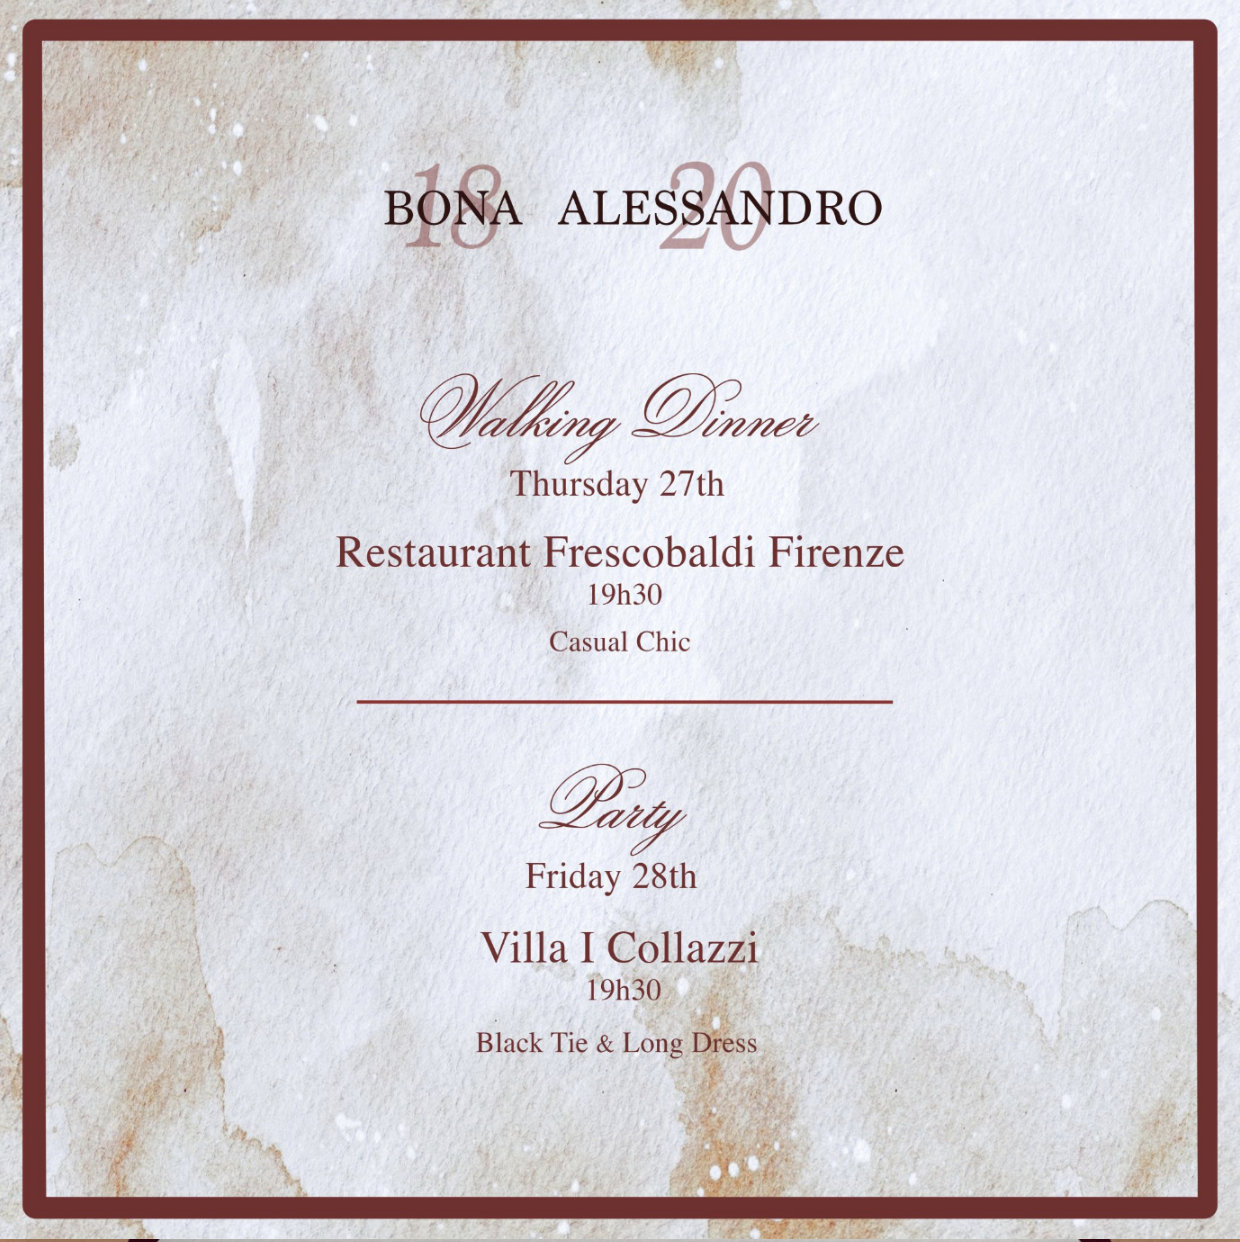
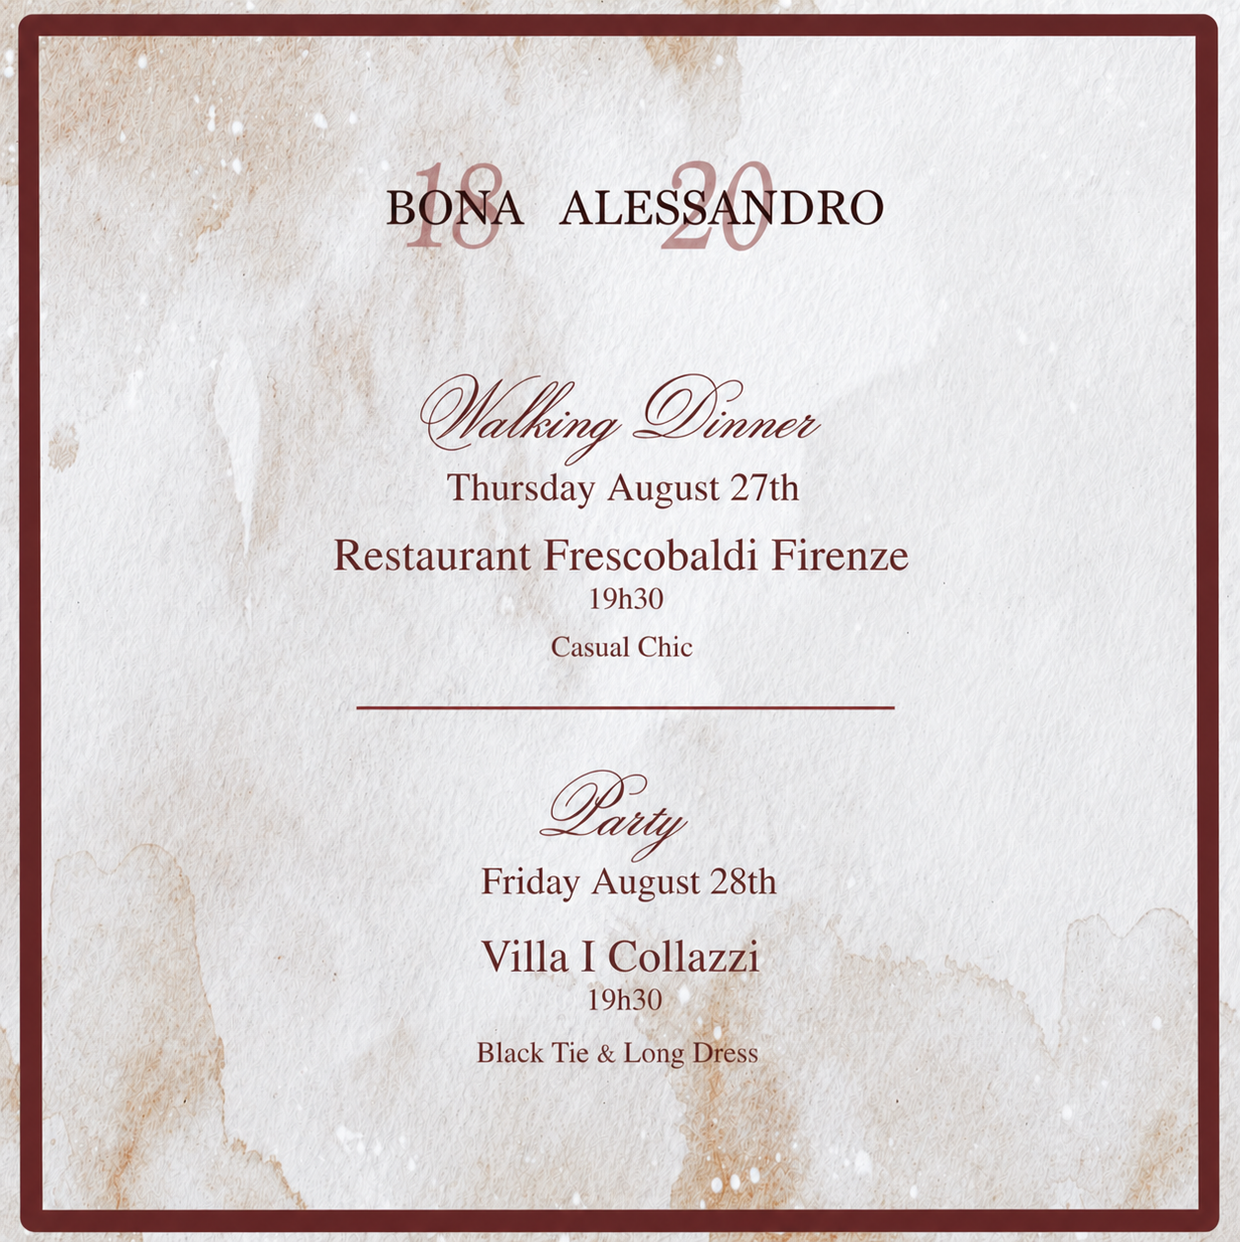
Update invitation assets and host tracking

diff --git a/src/components/host/host-dashboard.tsx b/src/components/host/host-dashboard.tsx
@@ -792,6 +792,7 @@ export function HostDashboard({
                   const latest = latestDelivery(party.deliveries);
                   const email = party.email?.trim();
                   const linkCopied = copiedLinkPartyId === party.id;
+                  const attendanceSummary = partyAttendanceSummary(party as Party, party.guests);
 
                   return (
                     <div
@@ -805,13 +806,40 @@ export function HostDashboard({
                             <div className="mt-1 text-sm text-stone-600">
                               {party.guests.map((guest) => guest.name).join(", ")}
                             </div>
-                            <div className="mt-2 text-sm text-stone-600">
-                              {partyAttendanceSummary(party as Party, party.guests)}
+                            <div className="mt-3 flex flex-wrap gap-2 text-xs font-semibold">
+                              <span
+                                suppressHydrationWarning
+                                className={cn(
+                                  "rounded-full border px-3 py-1",
+                                  party.response
+                                    ? "border-emerald-200 bg-emerald-50 text-emerald-800"
+                                    : "border-stone-200 bg-stone-50 text-stone-600",
+                                )}
+                              >
+                                {party.response
+                                  ? `RSVP received ${formatRelative(party.response.updatedAt)} · ${attendanceSummary}`
+                                  : "Awaiting RSVP"}
+                              </span>
+                              <span
+                                suppressHydrationWarning
+                                className={cn(
+                                  "rounded-full border px-3 py-1",
+                                  party.token.openedAt
+                                    ? "border-sky-200 bg-sky-50 text-sky-800"
+                                    : "border-stone-200 bg-stone-50 text-stone-600",
+                                )}
+                              >
+                                {party.token.openedAt
+                                  ? `Opened link ${formatRelative(party.token.openedAt)}`
+                                  : "Not opened"}
+                              </span>
                             </div>
                           </div>
                           <div className="text-right text-sm text-stone-600">
                             <div>{email || "No email"}</div>
-                            <div className="mt-2">Last sent {formatRelative(party.lastSentAt)}</div>
+                            <div className="mt-2" suppressHydrationWarning>
+                              Last sent {formatRelative(party.lastSentAt)}
+                            </div>
                           </div>
                         </div>
                         <div className="flex flex-wrap items-center gap-3 text-sm">
@@ -841,7 +869,7 @@ export function HostDashboard({
                           </button>
                         </div>
                         {latest ? (
-                          <div className="text-sm">
+                          <div className="text-sm" suppressHydrationWarning>
                             <span className={`font-semibold ${deliveryStatusTone(latest.status)}`}>
                               {latest.channel.toUpperCase()} {latest.kind} {latest.status}
                             </span>
@@ -866,7 +894,10 @@ export function HostDashboard({
                     className="rounded-[1.35rem] border border-[var(--app-line)] bg-white/80 px-4 py-4"
                   >
                     <div className="text-sm font-semibold text-stone-900">{activity.message}</div>
-                    <div className="mt-1 text-xs uppercase tracking-[0.24em] text-stone-500">
+                    <div
+                      className="mt-1 text-xs uppercase tracking-[0.24em] text-stone-500"
+                      suppressHydrationWarning
+                    >
                       {activity.actor} · {formatRelative(activity.createdAt)}
                     </div>
                   </div>

diff --git a/src/components/invitation/protected-translation-text.tsx b/src/components/invitation/protected-translation-text.tsx
@@ -7,31 +7,31 @@ const PROTECTED_TRANSLATION_TERMS = [
   { match: "Dress code- Casual Chic", label: "Dress Code - Casual Chic" },
   {
     match: "Dress Code - Black tie e abito lungo",
-    label: "Dress Code - Black tie e abito lungo",
+    label: "Dress Code - Black tie and long dress",
   },
   {
     match: "Dress Code- Black tie e abito lungo",
-    label: "Dress Code - Black tie e abito lungo",
+    label: "Dress Code - Black tie and long dress",
   },
   {
     match: "Dress code - Black tie e abito lungo",
-    label: "Dress Code - Black tie e abito lungo",
+    label: "Dress Code - Black tie and long dress",
   },
   {
     match: "Dress code- Black tie e abito lungo",
-    label: "Dress Code - Black tie e abito lungo",
+    label: "Dress Code - Black tie and long dress",
   },
   {
     match: "Dress Code - Black Tie and Long Dress",
-    label: "Dress Code - Black tie e abito lungo",
+    label: "Dress Code - Black tie and long dress",
   },
   {
     match: "Dress code - Black Tie and Long Dress",
-    label: "Dress Code - Black tie e abito lungo",
+    label: "Dress Code - Black tie and long dress",
   },
-  { match: "Black Tie and Long Dress", label: "Black tie e abito lungo" },
-  { match: "Black Tie e abito lungo", label: "Black tie e abito lungo" },
-  { match: "Black tie e abito lungo", label: "Black tie e abito lungo" },
+  { match: "Black Tie and Long Dress", label: "Black tie and long dress" },
+  { match: "Black Tie e abito lungo", label: "Black tie and long dress" },
+  { match: "Black tie e abito lungo", label: "Black tie and long dress" },
   {
     match: "Dinner in the centre of Florence",
     label: "Dinner in the centre of Florence",

diff --git a/src/lib/sheets/__tests__/guest-sheet.test.ts b/src/lib/sheets/__tests__/guest-sheet.test.ts
@@ -221,6 +221,51 @@ describe("parseGuestSheet", () => {
     });
   });
 
+  it("keeps RSVP and open signals when the latest delivery status is still sent", () => {
+    const table = parseGuestSheet(
+      [
+        [...GUEST_SHEET_HEADERS],
+        rowFromRecord({
+          guest_id: "guest_maniscalco",
+          token: "guest_token",
+          token_active: "TRUE",
+          first_name: "Alessandro",
+          last_name: "Maniscalco",
+          email: "maniscalcoalessandro1@gmail.com",
+          sent_invite_at: "2026-05-02T19:57:40.749Z",
+          invite_opened_at: "2026-04-26T23:32:16.281Z",
+          Florence_dinner: "FALSE",
+          coming_to_party: "FALSE",
+          transfer_needed: "FALSE",
+          not_coming: "TRUE",
+          rsvp_note: "Grazie",
+          rsvp_updated_at: "2026-05-13T20:41:03.798Z",
+          last_delivery_status: "sent",
+        }),
+      ],
+      "http://localhost:3000",
+    );
+    const guest = table.guests[0];
+
+    expect(guest).toMatchObject({
+      inviteOpenedAt: "2026-04-26T23:32:16.281Z",
+      lastDeliveryStatus: "sent",
+      sentInviteAt: "2026-05-02T19:57:40.749Z",
+      hasResponse: true,
+    });
+    expect(sheetGuestResponse(guest)).toEqual({
+      status: "not_attending",
+      guestSelections: { guest_maniscalco: false },
+      answers: {
+        question_walking_dinner: false,
+        question_party: false,
+        question_transfer: false,
+      },
+      note: "Grazie",
+      updatedAt: "2026-05-13T20:41:03.798Z",
+    });
+  });
+
   it("keeps two invited guests on one row with separate RSVP selections", () => {
     const table = parseGuestSheet(
       [

diff --git a/src/components/host/__tests__/host-dashboard.test.tsx b/src/components/host/__tests__/host-dashboard.test.tsx
@@ -120,4 +120,47 @@ describe("HostDashboard", () => {
       fireEvent.keyDown(screen.getByLabelText("Primary first name"), { key: "Enter" }),
     ).toBe(false);
   });
+
+  it("shows RSVP receipt and link open status separately from latest email delivery", () => {
+    const snapshot = dashboardSnapshot();
+    const party = snapshot.parties[0];
+    const openedAt = new Date(Date.now() - 120_000).toISOString();
+    const rsvpUpdatedAt = new Date(Date.now() - 60_000).toISOString();
+
+    party.token.openedAt = openedAt;
+    party.response = {
+      status: "not_attending",
+      guestSelections: Object.fromEntries(party.guests.map((guest) => [guest.id, false])),
+      answers: {
+        question_walking_dinner: false,
+        question_party: false,
+        question_transfer: false,
+      },
+      note: "Grazie",
+      updatedAt: rsvpUpdatedAt,
+    };
+    party.deliveries = [
+      {
+        id: "delivery_preview",
+        partyId: party.id,
+        channel: "email",
+        kind: "invite",
+        recipient: party.email ?? "",
+        subjectLine: "Invitation",
+        bodyPreview: "Open your invitation",
+        status: "sent",
+        sentAt: new Date(Date.now() - 180_000).toISOString(),
+        openedAt,
+        sandbox: false,
+      },
+    ];
+
+    render(React.createElement(HostDashboard, {
+      initialData: snapshot,
+    }));
+
+    expect(screen.getByText(/RSVP received .* · Not attending/)).toBeInTheDocument();
+    expect(screen.getByText(/Opened link /)).toBeInTheDocument();
+    expect(screen.getByText("EMAIL invite sent")).toBeInTheDocument();
+  });
 });

diff --git a/src/lib/seed-data.ts b/src/lib/seed-data.ts
@@ -42,7 +42,7 @@ export function createSeedState(): AppState {
       summaryAddressName: "Villa I Collazzi",
       summaryAddressLabel: "Via Volterrana, 4A, 50018 Scandicci FI",
       introduction: "",
-      dressCode: "Black tie e abito lungo",
+      dressCode: "Black tie and long dress",
       rsvpDeadline: "2026-07-15T18:00:00.000Z",
       footerNote: "",
     },
@@ -88,10 +88,10 @@ export function createSeedState(): AppState {
           "https://www.google.com/maps/search/?api=1&query=Villa+I+Collazzi+Impruneta",
         title: "The Party",
         datetimeLabel: "Friday, August 28th, 19h30",
-        dressCode: "Dress Code - Black tie e abito lungo",
+        dressCode: "Dress Code - Black tie and long dress",
         description: "",
         imageSrc: "/assets/collazzi/friday-villa.jpeg",
-        note: "The Party \nFriday, August 28th, 19h30\nDress Code - Black tie e abito lungo",
+        note: "The Party \nFriday, August 28th, 19h30\nDress Code - Black tie and long dress",
         subItems: [
           {
             id: "itinerary_party_shuttle",

diff --git a/src/components/invitation/__tests__/protected-translation-text.test.tsx b/src/components/invitation/__tests__/protected-translation-text.test.tsx
@@ -11,7 +11,7 @@ describe("ProtectedTranslationText", () => {
   it("marks fixed invitation phrases as non-translatable", () => {
     render(<ProtectedTranslationText text="Dress Code - Black Tie e abito lungo" />);
 
-    const dressCode = screen.getByText("Dress Code - Black tie e abito lungo");
+    const dressCode = screen.getByText("Dress Code - Black tie and long dress");
 
     expect(dressCode).toHaveAttribute("translate", "no");
     expect(dressCode).toHaveClass("notranslate");
@@ -28,10 +28,10 @@ describe("ProtectedTranslationText", () => {
     );
   });
 
-  it("renders the old English dress-code phrase as the preferred mixed wording", () => {
+  it("renders the old English dress-code phrase as the preferred wording", () => {
     render(<ProtectedTranslationText text="Dress code - Black Tie and Long Dress" />);
 
-    expect(screen.getByText("Dress Code - Black tie e abito lungo")).toHaveAttribute(
+    expect(screen.getByText("Dress Code - Black tie and long dress")).toHaveAttribute(
       "translate",
       "no",
     );

diff --git a/MEMORY.md b/MEMORY.md
@@ -32,3 +32,28 @@
 **What was decided:** Any first-name or last-name change regenerates the add-guest display name and clears a prior manual override; matching last names generate "First e Second Last".
 **Why:** The display name should keep reflecting current guest names after name corrections while still allowing manual edits until a name changes.
 **What was rejected:** Preserving manual display-name overrides across name changes was rejected because it can leave stale invitation labels.
+
+## 2026-05-12, Domain Outage Root Cause
+**What was decided:** Treat the `bonaalessandro.ink` outage as a Namecheap registrar contact-verification/DNS delegation issue, not an app or Vercel deployment issue.
+**Why:** Public DNS delegates the domain to Namecheap verification-hold nameservers that return `198.54.117.242`, while Namecheap's normal DNS servers already return Vercel's required `76.76.21.21`; forcing `bonaalessandro.ink` to Vercel's IP returns `HTTP/2 200` for `/host/login`.
+**What was rejected:** Redeploying or changing application code was rejected because the latest Vercel production deployment is ready and the local production build passes.
+
+## 2026-05-13, Host RSVP and Open Display
+**What was decided:** Host guest cards should show explicit RSVP receipt and invitation-open badges from `party.response.updatedAt` and `party.token.openedAt`, independently from latest email delivery status.
+**Why:** The live Maniscalco row had both `invite_opened_at` and `rsvp_updated_at`, but `last_delivery_status` was still `sent`; the old card only surfaced delivery status and an attendance summary, so the host view did not clearly say the guest opened or RSVPed.
+**What was rejected:** Mutating the live Google Sheet to force `last_delivery_status=opened` was rejected because it would hide the real later email-send state and was not needed for display.
+
+## 2026-06-02, Card Invite August Text
+**What was decided:** Use image-generator-produced full-card edits for the regular and party-only card backs, then resize them back to the original `1240x1242` asset dimensions before replacing the served files.
+**Why:** The generator added "August" cleanly inline on the date lines, while a text-only composite kept the original art but left visible ghosting around the old date text.
+**What was rejected:** A local text-only overlay was rejected because it introduced artifacts; changing app code or references was rejected because replacing the existing served assets is the smallest change.
+
+## 2026-06-02, Dress Code Translation Wording
+**What was decided:** Display the party dress-code translation as "Black tie and long dress" while still recognizing old "e abito lungo" inputs for normalization.
+**Why:** The user requested replacing the Italian mixed phrase with the English wording, and preserving old matches prevents stale content from leaking through browser-translation protection.
+**What was rejected:** Only changing seed data was rejected because the protected translation component could still rewrite matching text back to the old phrase.
+
+## 2026-06-05, Diana Column-T Invite Sends
+**What was decided:** For the `Diana` source resend, use the literal live-sheet condition `source = Diana` and blank `sent_invite_at` in column T, then send email and write `sent_invite_at`, `last_delivery_status`, `provider_message_id`, and `last_error` directly.
+**Why:** Several Diana rows had blank column T but nonblank/opened `last_delivery_status`, so the host UI's delivery-status filter would not match the user's "never sent" condition.
+**What was rejected:** Using the normal host source-send filter was rejected because it keys off computed delivery status; normalizing or fixing unrelated sheet headers during this one-off send was rejected as outside the request.
